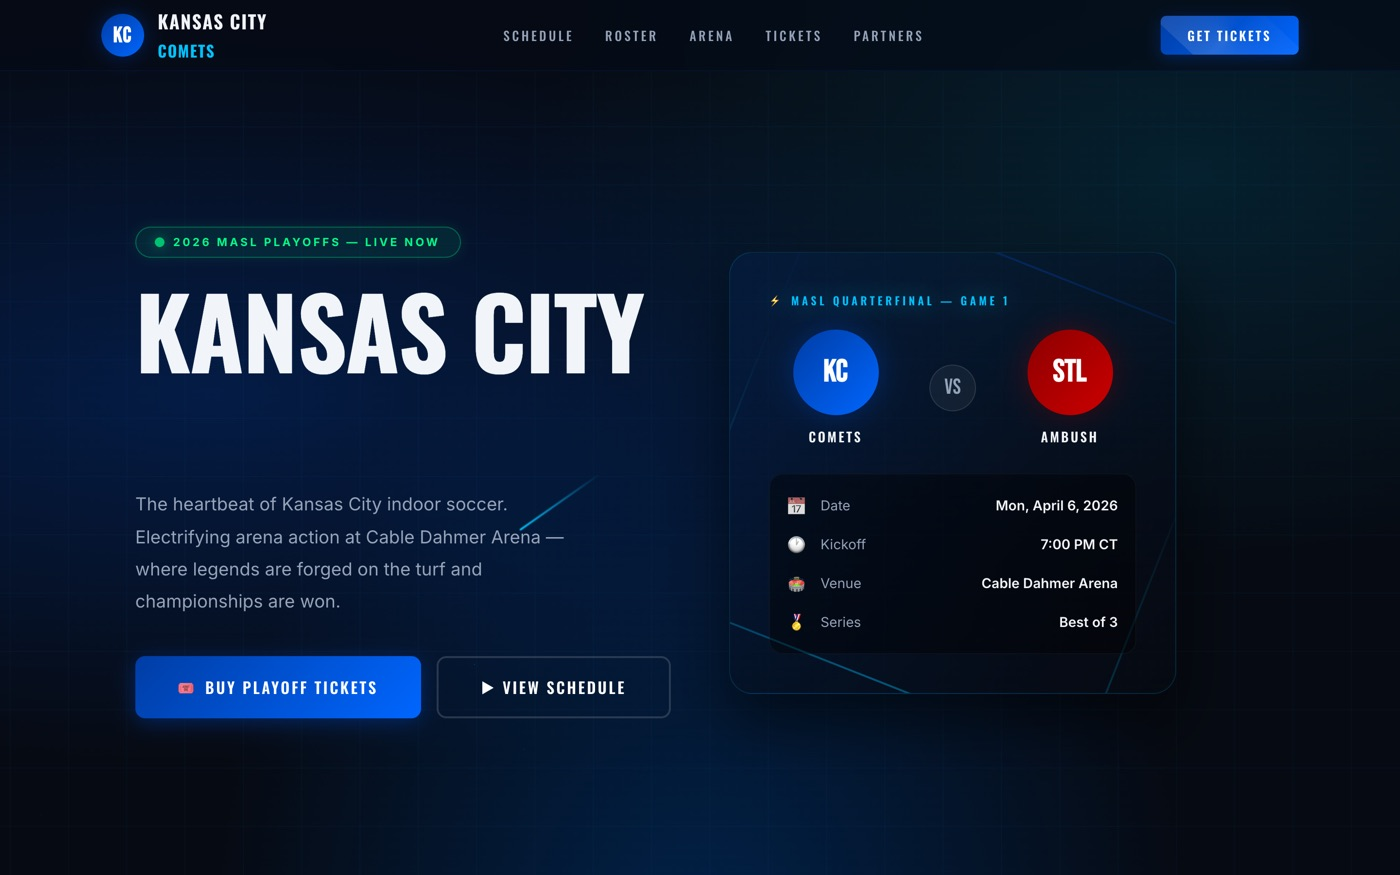
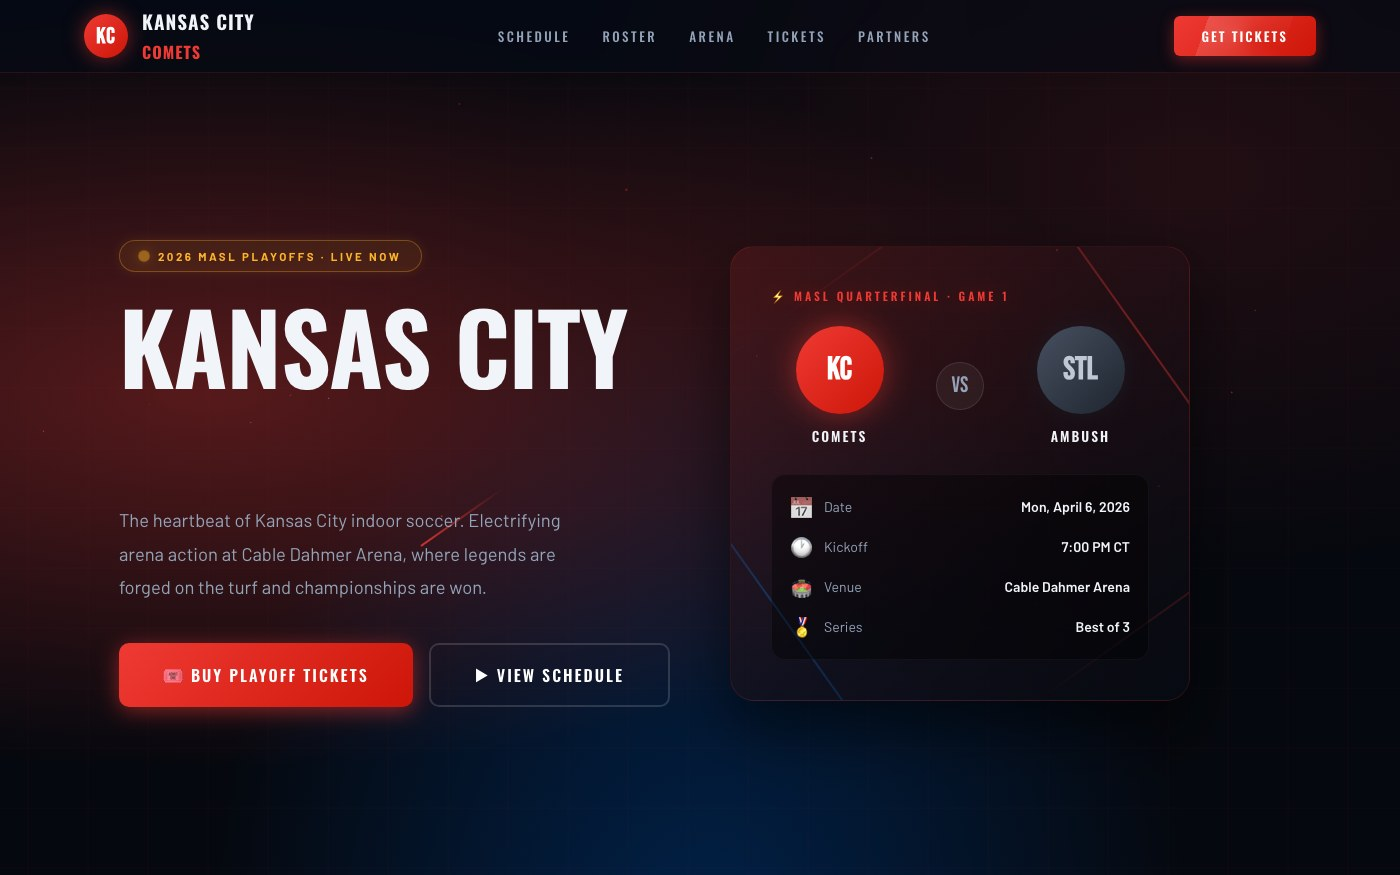
work: fix Catrines link (vercel URL, domain unwired) + refresh OFB/Comets thumbnails to branded versions

diff --git a/work.html b/work.html
@@ -105,9 +105,9 @@
         <!-- Catrines -->
         <article class="work-item reveal">
           <div class="work-frame">
-            <a href="https://catrinesbarbershop.com" target="_blank" rel="noopener" class="browser" aria-label="Visit Catrines Barbershop">
+            <a href="https://catrines-barbershop.vercel.app" target="_blank" rel="noopener" class="browser" aria-label="Visit Catrines Barbershop">
               <div class="browser-bar"><span></span><span></span><span></span>
-                <div class="browser-url">catrinesbarbershop.com</div>
+                <div class="browser-url">catrines-barbershop.vercel.app</div>
               </div>
               <img src="assets/work/catrines.jpg" alt="Catrines Barbershop website homepage" loading="lazy" width="1400" height="875">
             </a>
@@ -118,7 +118,7 @@
             <p>A clean, booking-first site for a working barbershop. Built, shipped, and paid in full same week.</p>
             <blockquote class="work-quote">"I love it more than any site I've ever seen."<cite>Eddy Tapia, owner</cite></blockquote>
             <div class="work-tags"><span>Website design</span><span>Booking flow</span><span>Local SEO</span></div>
-            <a href="https://catrinesbarbershop.com" target="_blank" rel="noopener" class="btn btn-secondary btn-sm">View live site</a>
+            <a href="https://catrines-barbershop.vercel.app" target="_blank" rel="noopener" class="btn btn-secondary btn-sm">View live site</a>
           </div>
         </article>
 
